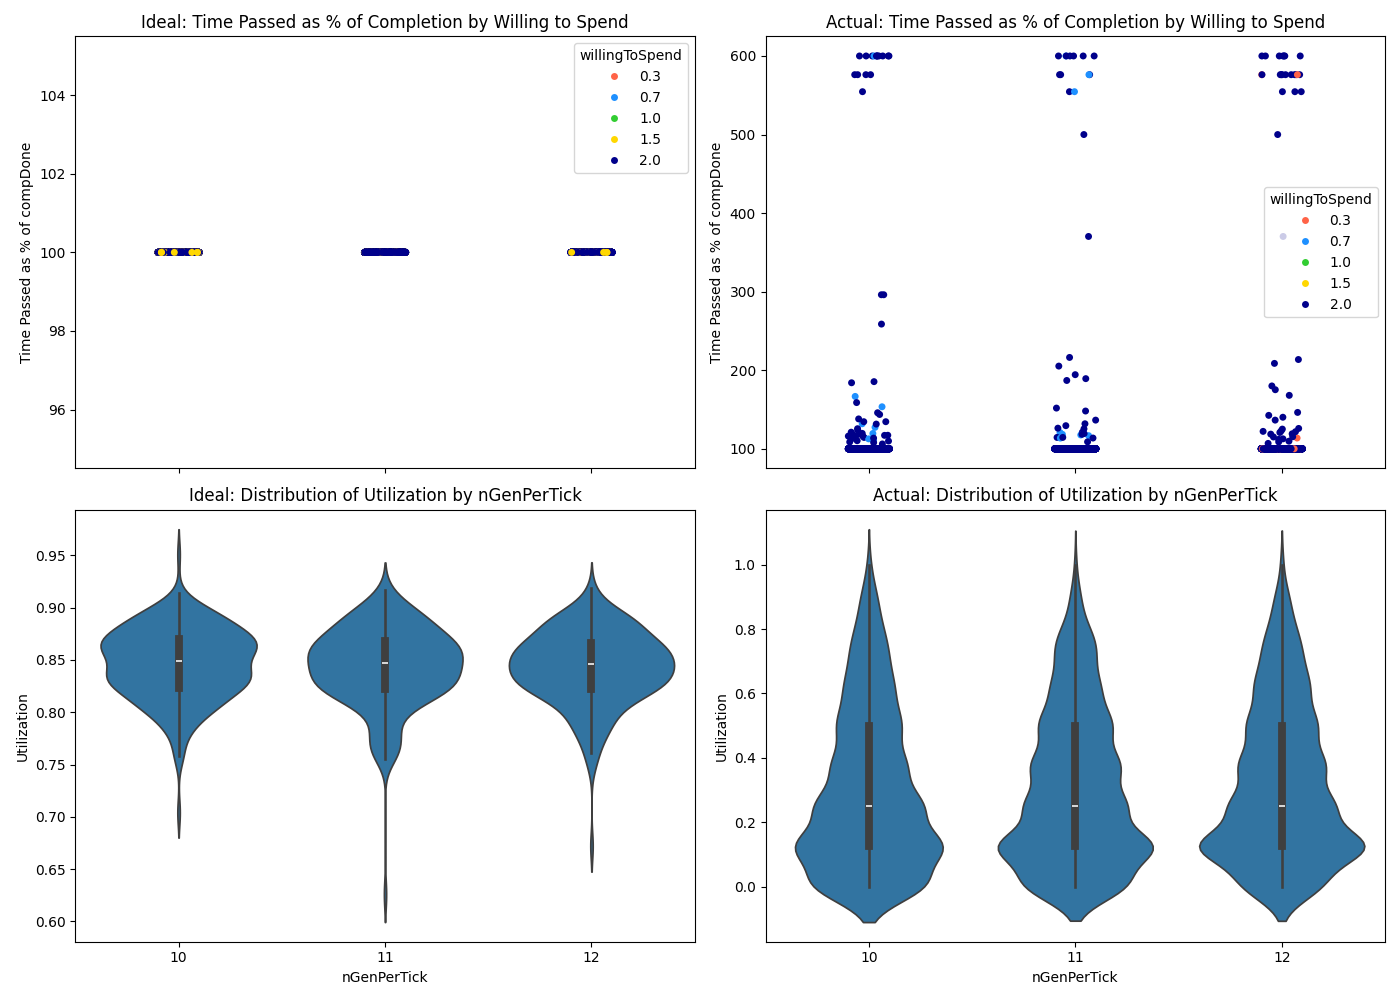
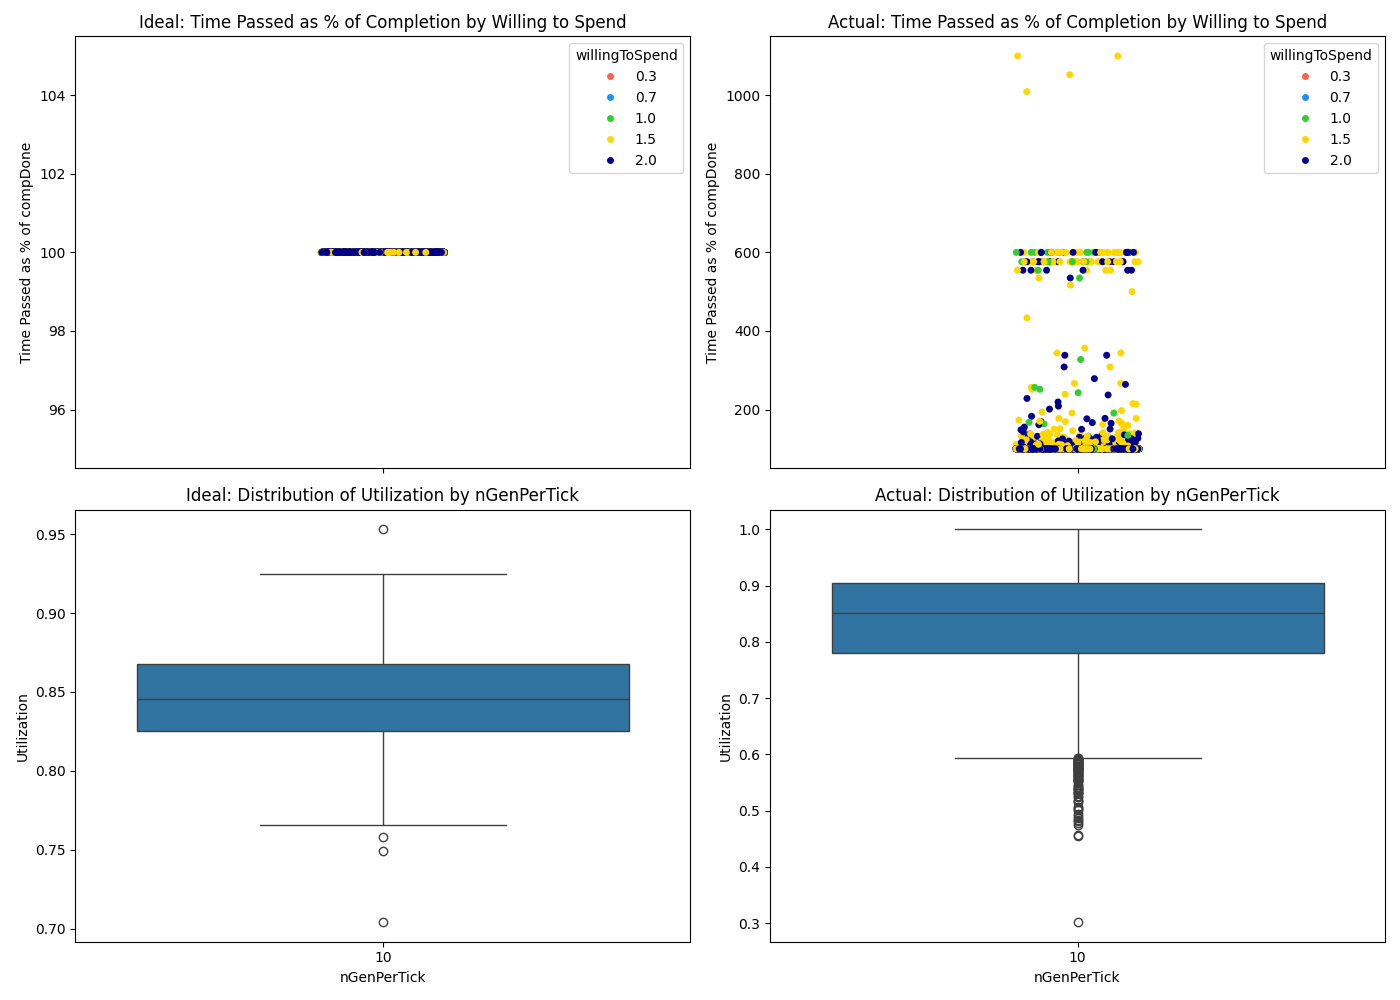
some bug fixes/changes to make utilization much better - but note that latency still is much worse, b/c mem gives us no indication of length of compute. maybe we should be looking at distribution across priorities or something?

diff --git a/gs.go b/gs.go
@@ -28,9 +28,10 @@ func (h *MinHeap) Pop() any {
 	return x
 }
 
-func useNextLarger(h *MinHeap, memNeeded Tmem) (TIdleMachine, bool) {
+func useNextLarger(h *MinHeap, memNeeded Tmem, procPaying float32) (TIdleMachine, bool) {
 
-	highestCost := float32(math.MaxFloat32)
+	minHighestCost := float32(math.MaxFloat32)
+	maxMemAvail := Tmem(0.0)
 	indToUse := -1
 
 	for ind := 0; ind < len(*h); ind++ {
@@ -38,21 +39,33 @@ func useNextLarger(h *MinHeap, memNeeded Tmem) (TIdleMachine, bool) {
 		item := (*h)[ind]
 
 		if item.memAvail > memNeeded {
-			if item.highestCostRunning < highestCost {
-				highestCost = item.highestCostRunning
+			if (item.highestCostRunning < minHighestCost) ||
+				((item.highestCostRunning == minHighestCost) && (item.memAvail > maxMemAvail)) {
+				minHighestCost = item.highestCostRunning
+				maxMemAvail = item.memAvail
 				indToUse = ind
 			}
 		}
 	}
 
 	if indToUse < 0 {
+		toWrite := "   found no good machine \n"
+		logWrite(SCHED, toWrite)
 		return TIdleMachine{}, false
 	} else {
 		toRet := (*h)[indToUse]
 
+		toWrite := fmt.Sprintf("   min highest cost: %v, max mem avail: %v, info to use: %v \n", minHighestCost, maxMemAvail, toRet)
+		logWrite(SCHED, toWrite)
+
 		// if there is mem left, update value
 		if (*h)[indToUse].memAvail-memNeeded > IDLE_HEAP_THRESHOLD {
 			(*h)[indToUse].memAvail -= memNeeded
+
+			// also if keeping it, update the highest cost
+			if (*h)[indToUse].highestCostRunning < procPaying {
+				(*h)[indToUse].highestCostRunning = procPaying
+			}
 		} else {
 			// else remove it from the list
 			*h = append((*h)[:indToUse], (*h)[indToUse+1:]...)
@@ -91,6 +104,16 @@ func newGolbalSched(machines map[Tid]*Machine, currTickPtr *Tftick, numGenPerTic
 		nProcGenPerTick: numGenPerTick,
 		nFoundIdle:      0,
 		nUsedKChoices:   0,
+	}
+
+	// initally add all machines to idle heap
+	for i := 0; i < len(machines); i++ {
+		toPush := TIdleMachine{
+			memAvail:           MEM_PER_MACHINE,
+			highestCostRunning: -1,
+			machine:            Tid(i),
+		}
+		gs.idleMachines.heap.Push(toPush)
 	}
 
 	return gs
@@ -137,8 +160,11 @@ func (gs *GlobalSched) placeProcs() {
 // 2. if there are none, do the ok to place call on all machines? on some machines? just random would be the closest to strictly following what they do...
 func (gs *GlobalSched) pickMachine(procToPlace *Proc) *Machine {
 
+	toWrite := fmt.Sprintf("%v, GS placing proc %v \n", int(*gs.currTickPtr), procToPlace.String())
+	logWrite(SCHED, toWrite)
+
 	gs.idleMachines.lock.Lock()
-	machine, found := useNextLarger(gs.idleMachines.heap, procToPlace.maxMem())
+	machine, found := useNextLarger(gs.idleMachines.heap, procToPlace.maxMem(), procToPlace.willingToSpend())
 	gs.idleMachines.lock.Unlock()
 	if found {
 		gs.nFoundIdle += 1
@@ -164,7 +190,7 @@ func (gs *GlobalSched) pickMachine(procToPlace *Proc) *Machine {
 		return nil
 	}
 
-	toWrite := fmt.Sprintf("%v, GS placing proc: %v, the machine to use is %v \n", int(*gs.currTickPtr), procToPlace.String(), machineToUse)
+	toWrite = fmt.Sprintf("   used k choices: the machine to use is %v \n", machineToUse)
 	logWrite(SCHED, toWrite)
 
 	return machineToUse

diff --git a/results/usage_plots.py b/results/usage_plots.py
@@ -10,7 +10,7 @@ ideal_usage_metrics = pd.read_csv("ideal_usage.txt", index_col=None, names=["nGe
 ideal_procs_done = pd.read_csv("ideal_procs_done.txt", index_col=None, names=["nGenPerTick", "willingToSpend", "timePassed", "compDone"])
 
 actual_usage_metrics = pd.read_csv("usage.txt", index_col=None, names=["nGenPerTick", "tick", "machineId", "ticksLeftOver", "memFree"])
-actual_procs_done = pd.read_csv("procs_done.txt", index_col=None, names=["nGenPerTick", "willingToSpend", "timePassed", "compDone"])
+actual_procs_done = pd.read_csv("procs_done.txt", index_col=None, names=["nGenPerTick", "willingToSpend", "timePassed", "compDone", "timeQedAtGS"])
 
 # 1. Compute timeAsPercentage for both ideal and actual data
 ideal_procs_done["timeAsPercentage"] = (ideal_procs_done["timePassed"] / ideal_procs_done["compDone"]) * 100
@@ -34,7 +34,7 @@ ax[0, 0].set_title("Ideal: Time Passed as % of Completion by Willing to Spend")
 ax[0, 0].set_ylabel("Time Passed as % of compDone")
 
 # 4. Second subplot: Violin plot for Utilization for Ideal data
-sns.violinplot(data=ideal_usage_metrics, x="nGenPerTick", y="utilization", ax=ax[1, 0])
+sns.boxplot(data=ideal_usage_metrics, x="nGenPerTick", y="utilization", ax=ax[1, 0])
 
 ax[1, 0].set_title("Ideal: Distribution of Utilization by nGenPerTick")
 ax[1, 0].set_xlabel("nGenPerTick")
@@ -48,7 +48,7 @@ ax[0, 1].set_title("Actual: Time Passed as % of Completion by Willing to Spend")
 ax[0, 1].set_ylabel("Time Passed as % of compDone")
 
 # 6. Fourth subplot: Violin plot for Utilization for Actual data
-sns.violinplot(data=actual_usage_metrics, x="nGenPerTick", y="utilization", ax=ax[1, 1])
+sns.boxplot(data=actual_usage_metrics, x="nGenPerTick", y="utilization", ax=ax[1, 1])
 
 ax[1, 1].set_title("Actual: Distribution of Utilization by nGenPerTick")
 ax[1, 1].set_xlabel("nGenPerTick")

diff --git a/machine_sched.go b/machine_sched.go
@@ -62,6 +62,7 @@ func (sd *Sched) okToPlace(newProc *Proc) float32 {
 }
 
 func (sd *Sched) placeProc(newProc *Proc) {
+	newProc.timePlaced = *sd.currTickPtr
 	sd.activeQ.enq(newProc)
 }
 
@@ -97,6 +98,9 @@ func (sd *Sched) simulateRunProcs() {
 
 	toReq := make([]*Proc, 0)
 
+	toWrite = fmt.Sprintf("%v @ %v, machine %v; has q %v\n", sd.worldNumProcsGenPerTick, sd.currTickPtr.String(), sd.machineId, sd.activeQ.String())
+	logWrite(SCHED, toWrite)
+
 	for sd.activeQ.qlen() > 0 && totalTicksLeftToGive-Tftick(TICK_SCHED_THRESHOLD) > 0.0 {
 
 		// run by amount of money willing to spend
@@ -119,9 +123,6 @@ func (sd *Sched) simulateRunProcs() {
 				continue
 			}
 
-			toWrite := fmt.Sprintf("   giving %v to proc %v\n", ticksLeftPerCore[currCore], procToRun.String())
-			logWrite(SCHED, toWrite)
-
 			ticksUsed, done := procToRun.runTillOutOrDone(ticksLeftPerCore[currCore])
 
 			ticksLeftPerCore[currCore] -= ticksUsed
@@ -133,7 +134,7 @@ func (sd *Sched) simulateRunProcs() {
 				// if the proc is done, update the ticksPassed to be exact for metrics etc
 				procToRun.timeDone = *sd.currTickPtr + (1 - ticksLeftPerCore[currCore])
 
-				toWrite := fmt.Sprintf("%v, %.2f, %.2f, %.2f \n", sd.worldNumProcsGenPerTick, procToRun.willingToSpend(), float32(procToRun.timeDone-procToRun.timeStarted), float32(procToRun.compDone))
+				toWrite := fmt.Sprintf("%v, %v, %v, %v \n", sd.worldNumProcsGenPerTick, procToRun.willingToSpend(), (procToRun.timeDone - procToRun.timeStarted).String(), procToRun.compDone.String())
 				logWrite(PROCS_DONE, toWrite)
 			}
 

diff --git a/proc.go b/proc.go
@@ -13,6 +13,7 @@ type Proc struct {
 	procId        Tid
 	tenantId      Tid
 	timeStarted   Tftick
+	timePlaced    Tftick
 	timeDone      Tftick
 	compDone      Tftick
 	procInternals *ProcInternals
@@ -21,6 +22,7 @@ type Proc struct {
 func (p *Proc) String() string {
 	return strconv.Itoa(int(p.procId)) + ": " +
 		", time started: " + p.timeStarted.String() +
+		", time placed: " + p.timePlaced.String() +
 		", willing to spend: " + strconv.FormatFloat(float64(p.willingToSpend()), 'f', 3, 32)
 }
 

diff --git a/run_test.go b/run_test.go
@@ -7,7 +7,7 @@ import (
 )
 
 const (
-	N_TICK = 200
+	N_TICK = 500
 
 	N_MACHINES          = 10
 	N_CORES_PER_MACHINE = 8
@@ -18,7 +18,7 @@ const (
 	// TODO: I think next step is to make this more differentiated -- do pareto distribution? has a mean and an avg vaguely, I think
 	// is whats pareto distributed the number of procs or their runtime? or both?
 	N_PROCS_GEN_PER_TICK_START = 10
-	N_PROCS_GEN_PER_TICK_END   = 12
+	N_PROCS_GEN_PER_TICK_END   = 10
 )
 
 func TestRunWorld(t *testing.T) {

diff --git a/world.go b/world.go
@@ -10,7 +10,7 @@ const (
 
 	IDLE_HEAP_THRESHOLD = 1
 
-	VERBOSE_SCHED_INFO       = false
+	VERBOSE_SCHED_INFO       = true
 	VERBOSE_USAGE_STATS      = true
 	VERBOSE_IDEAL_SCHED_INFO = false
 )
